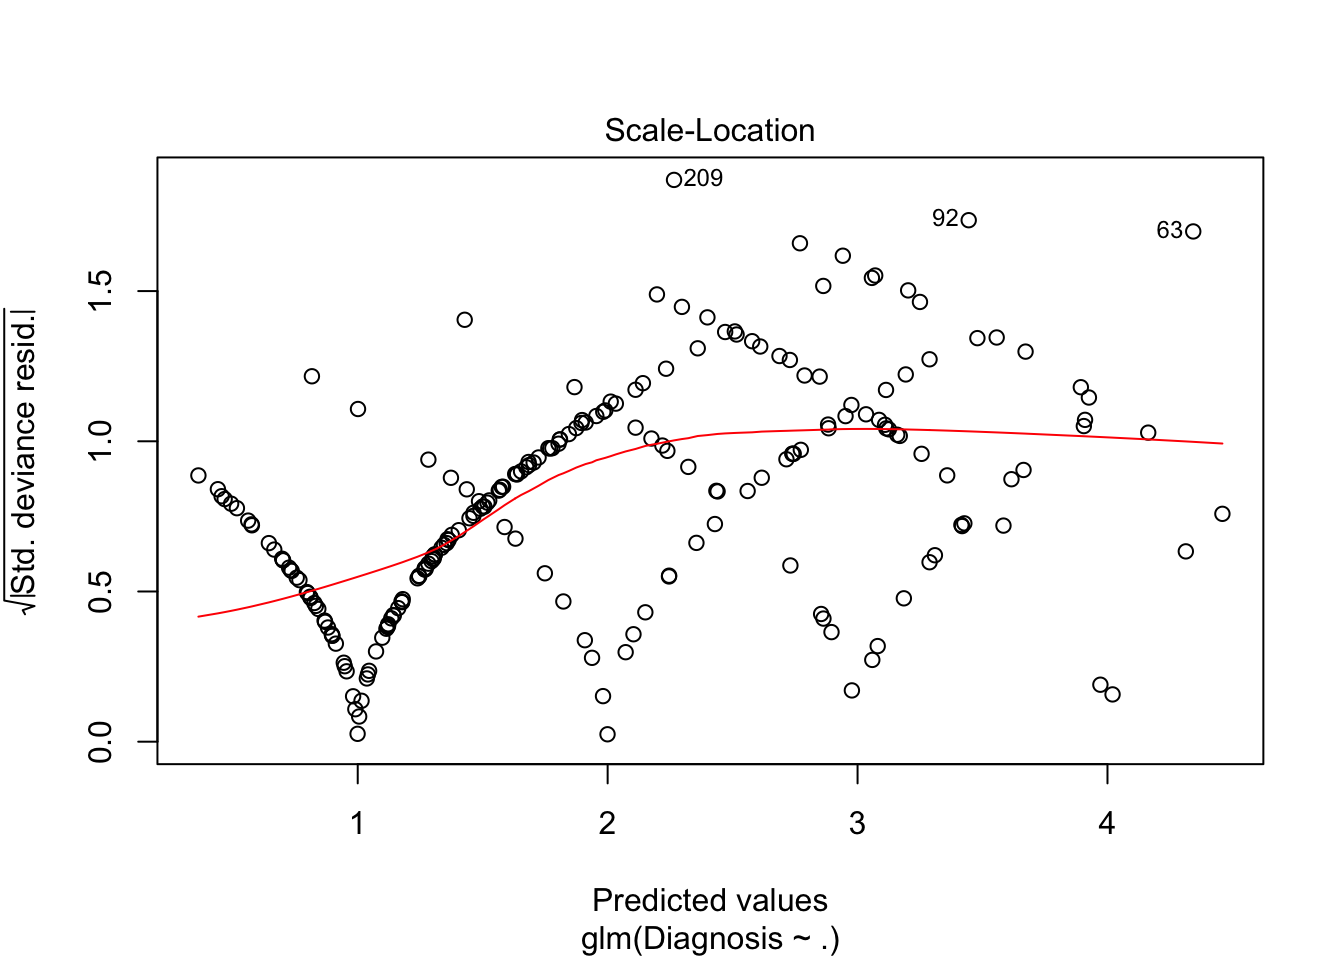
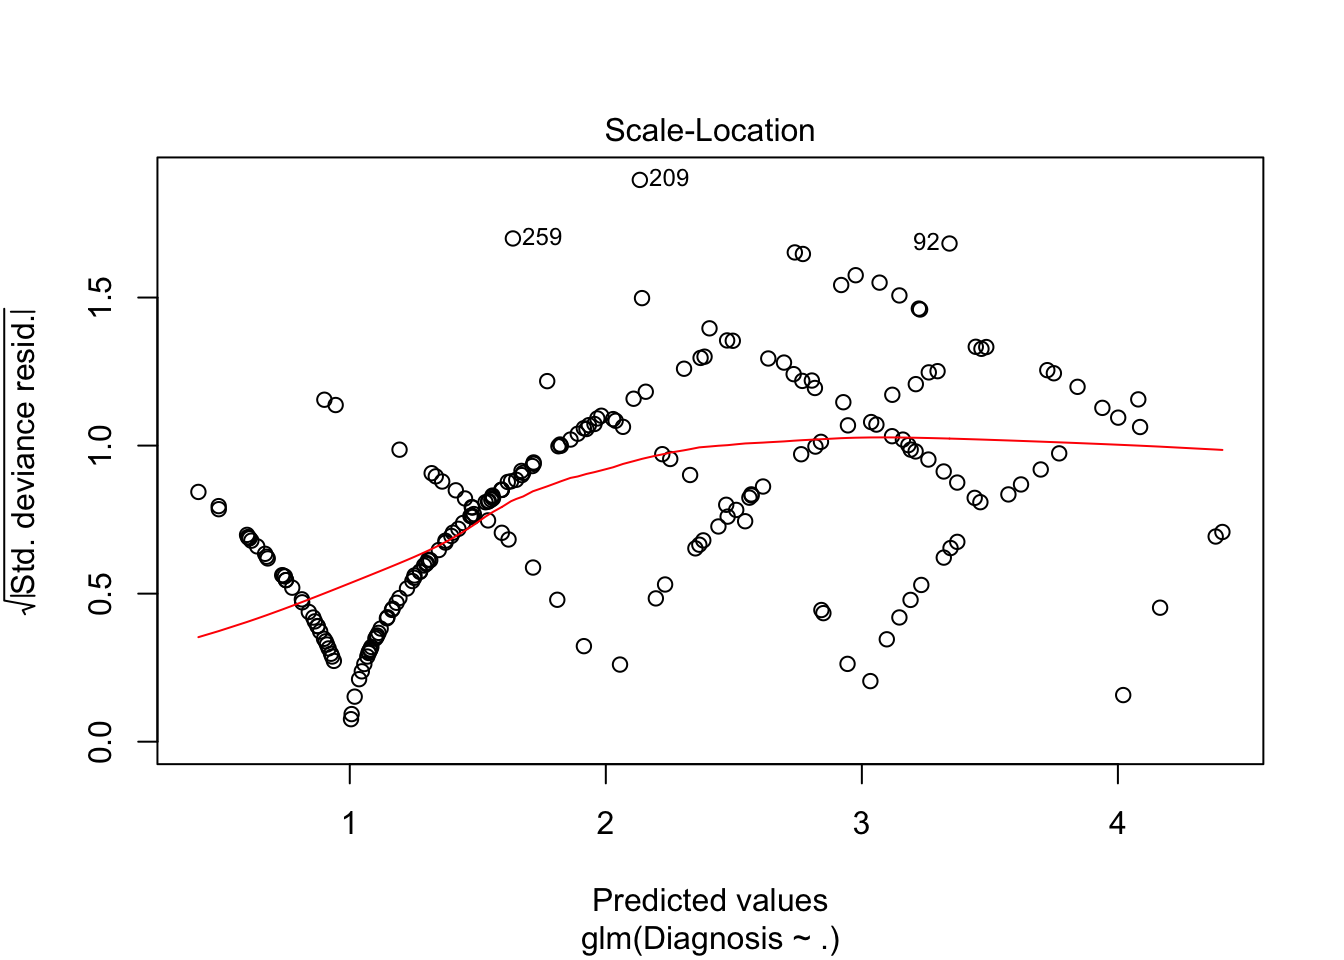
more stuff

diff --git a/content/post/Analysis_heart_conditions.html b/content/post/Analysis_heart_conditions.html
@@ -104,12 +104,12 @@ data.rpart</code></pre>
 ## Resampling results across tuning parameters:
 ## 
 ##   cp          Accuracy   Kappa    
-##   0.00990099  0.5546892  0.2778566
-##   0.02475248  0.5642824  0.2772408
-##   0.06930693  0.5659632  0.2313219
+##   0.01904762  0.5502062  0.2735190
+##   0.03809524  0.5580310  0.2738411
+##   0.06666667  0.5521312  0.2176496
 ## 
 ## Accuracy was used to select the optimal model using  the largest value.
-## The final value used for the model was cp = 0.06930693.</code></pre>
+## The final value used for the model was cp = 0.03809524.</code></pre>
 <pre class="r"><code># We can look at the decision tree here
 data.rpart$finalModel</code></pre>
 <pre><code>## n= 223 
@@ -117,50 +117,54 @@ data.rpart$finalModel</code></pre>
 ## node), split, n, loss, yval, (yprob)
 ##       * denotes terminal node
 ## 
-## 1) root 223 101 0  (0.55 0.16 0.12 0.13 0.04) *</code></pre>
+## 1) root 223 105 0  (0.53 0.18 0.12 0.12 0.054)  
+##   2) Thal3.0&gt;=0.5 123  27 0  (0.78 0.14 0.041 0.033 0.0081) *
+##   3) Thal3.0&lt; 0.5 100  77 1  (0.22 0.23 0.22 0.22 0.11)  
+##     6) Chest_Pain4.0&lt; 0.5 32  16 0  (0.5 0.22 0.16 0.062 0.062) *
+##     7) Chest_Pain4.0&gt;=0.5 68  48 3  (0.088 0.24 0.25 0.29 0.13) *</code></pre>
 <pre class="r"><code>#--------------------------Testing the rpart model and looking at output---------------------------------
 
 predict(data.rpart, test)</code></pre>
-<pre><code>##  [1] 0  0  0  0  0  0  0  0  0  0  0  0  0  0  0  0  0  0  0  0  0  0  0 
-## [24] 0  0  0  0  0  0  0  0  0  0  0  0  0  0  0  0  0  0  0  0  0  0  0 
-## [47] 0  0  0  0  0  0  0  0  0  0  0  0  0  0  0  0  0  0  0  0  0  0  0 
-## [70] 0  0  0  0  0 
+<pre><code>##  [1] 0  3  0  0  0  0  0  3  0  0  0  0  3  0  0  3  3  0  0  0  0  3  0 
+## [24] 0  0  0  0  3  0  3  3  0  0  0  0  0  0  0  3  0  0  3  0  3  3  3 
+## [47] 0  0  0  0  0  0  0  0  0  0  0  0  0  0  3  3  0  0  0  0  3  3  0 
+## [70] 0  0  3  3  3 
 ## Levels: 0  1  2  3  4</code></pre>
 <pre class="r"><code>confusionMatrix(predict(data.rpart, test), test$Diagnosis)</code></pre>
 <pre><code>## Confusion Matrix and Statistics
 ## 
 ##           Reference
 ## Prediction 0  1  2  3  4 
-##         0  38 18  9  5  4
+##         0  38  7  2  5  1
 ##         1   0  0  0  0  0
 ##         2   0  0  0  0  0
-##         3   0  0  0  0  0
+##         3   4  7  6  4  0
 ##         4   0  0  0  0  0
 ## 
 ## Overall Statistics
 ##                                           
-##                Accuracy : 0.5135          
-##                  95% CI : (0.3944, 0.6315)
-##     No Information Rate : 0.5135          
-##     P-Value [Acc &gt; NIR] : 0.5466          
+##                Accuracy : 0.5676          
+##                  95% CI : (0.4472, 0.6823)
+##     No Information Rate : 0.5676          
+##     P-Value [Acc &gt; NIR] : 0.5487          
 ##                                           
-##                   Kappa : 0               
+##                   Kappa : 0.2264          
 ##  Mcnemar&#39;s Test P-Value : NA              
 ## 
 ## Statistics by Class:
 ## 
 ##                      Class: 0  Class: 1  Class: 2  Class: 3  Class: 4 
-## Sensitivity             1.0000    0.0000    0.0000   0.00000   0.00000
-## Specificity             0.0000    1.0000    1.0000   1.00000   1.00000
-## Pos Pred Value          0.5135       NaN       NaN       NaN       NaN
-## Neg Pred Value             NaN    0.7568    0.8784   0.93243   0.94595
-## Prevalence              0.5135    0.2432    0.1216   0.06757   0.05405
-## Detection Rate          0.5135    0.0000    0.0000   0.00000   0.00000
-## Detection Prevalence    1.0000    0.0000    0.0000   0.00000   0.00000
-## Balanced Accuracy       0.5000    0.5000    0.5000   0.50000   0.50000</code></pre>
-<p>Looking at the output of the code, we see that we have 223 samples for the training set, with 13 predictors and 5 classes. This all sounds good. One interesting aspect of the rpart model is that it is able to give us different complexity parameters and their subsequent accuracy is used in the model. The complexity parameter is effectively a measurement of how deep your decision tree is. If this doesn’t make sense, I suggest doing some background reading on it. We see that a complexity parameter of 0.028 gives us the highest level of accuracy, which is a worryingly low 53%. Not to worry however, as we haven’t tested the model yet. We can also have a look at the decision tree.</p>
-<p>We then moving on to testing our model. We use the predict command, which predicts the Diagnosis of the 75 remaining data points using the 13 factors. We can see the output. This is nice to see, but really that useful. What is useful however, is the confusion matrix. This shows us how many false/true positive/negatives were produced by the model on the testing data set, as well as he overall statistics. We can see the sensitivity and specificity for each result, as well as the overall accuracy. Our accuracy is 59.46%, which is surprisingly low given what we expected.</p>
-<p>A low accuracy value is not the end of the world, for several reasons. The first of these is we have chosen an inappropriate model for the data set. Following this thinking, I tried a different tact. I ran a logistical regression model for two reasons. The first is that it is another model and so we might have success in that regard. The second is that it is able to tell you which factors have a larger impact on the model, and it is possible that having extraneous factors in your model will make in inaccurate. And so, we took it for a spin.</p>
+## Sensitivity             0.9048    0.0000    0.0000   0.44444   0.00000
+## Specificity             0.5312    1.0000    1.0000   0.73846   1.00000
+## Pos Pred Value          0.7170       NaN       NaN   0.19048       NaN
+## Neg Pred Value          0.8095    0.8108    0.8919   0.90566   0.98649
+## Prevalence              0.5676    0.1892    0.1081   0.12162   0.01351
+## Detection Rate          0.5135    0.0000    0.0000   0.05405   0.00000
+## Detection Prevalence    0.7162    0.0000    0.0000   0.28378   0.00000
+## Balanced Accuracy       0.7180    0.5000    0.5000   0.59145   0.50000</code></pre>
+<p>Looking at the output of the code, we see that we have 223 samples for the training set, with 13 predictors and 5 classes. This all sounds good. One interesting aspect of the rpart model is that it is able to give us different complexity parameters and their subsequent accuracy is used in the model. The complexity parameter is effectively a measurement of how deep your decision tree is. If this doesn’t make sense, I suggest doing some background reading on it. We see which complexity parameter gives us the highest level of accuracy, which can be seen to be worryingly low here. Not to worry however, as we haven’t tested the model yet. We can also have a look at the decision tree if we wish to.</p>
+<p>We then moving on to testing our model. We use the predict command, which predicts the Diagnosis of the 75 remaining data points using the 13 factors. We can see the output. This is nice to see, but really that useful. What is useful however, is the confusion matrix. This shows us how many false/true positive/negatives were produced by the model on the testing data set, as well as the overall statistics. We can see the sensitivity and specificity for each result, as well as the overall accuracy. Our accuracy is surprisingly low given that we expected the factors to be highly correlated to the output.</p>
+<p>A low accuracy value is not the end of the world, for several reasons. The first of these is we have chosen an inappropriate model for the data set. Following this thinking, I tried a different tact and so I ran a logistical regession model. This has two benefits. The first is that it is another model and so we may find it is accurate. However, it is also a rather simple model and as the decision tree failed, I was not hopeful. The main reason I ran it is that this model is able to tell you which factors are strongly correlated, and which are not, to the output. We want to know this because sometimes having extraneous factors in the model makes it less accurate, and so if we are able to cut some unnecessary ones, it should help.</p>
 <p>Once again, we divide the data into testing and training sets. A subtlety here is that the logistic model strictly takes numeric arguments, so we have to make sure the dataframe is a numeric one. Onc again we train the model as Diagnosis as a function of everything with the training data set and then we have a look.</p>
 <pre class="r"><code>#-----------------------------Using a Logistics model--------------------------------------------------
 
@@ -178,35 +182,37 @@ summary(logistic)</code></pre>
 ## glm(formula = Diagnosis ~ ., data = train)
 ## 
 ## Deviance Residuals: 
-##      Min        1Q    Median        3Q       Max  
-## -2.44471  -0.54312  -0.07324   0.43167   2.73439  
+##     Min       1Q   Median       3Q      Max  
+## -2.3423  -0.5543  -0.0974   0.4858   2.8671  
 ## 
 ## Coefficients:
 ##                             Estimate Std. Error t value Pr(&gt;|t|)    
-## (Intercept)               -1.8838280  0.4714950  -3.995 8.95e-05 ***
-## Age                       -0.0030105  0.0073353  -0.410 0.681926    
-## Sex                        0.2701683  0.1323493   2.041 0.042475 *  
-## Chest_Pain                 0.2128826  0.0643597   3.308 0.001107 ** 
-## Blood_Pressure            -0.0009431  0.0058152  -0.162 0.871316    
-## Cholestoral               -0.0005588  0.0015066  -0.371 0.711105    
-## Blood_Sugar               -0.1029197  0.1705757  -0.603 0.546919    
-## ecg                        0.1074881  0.0586621   1.832 0.068326 .  
-## Max_Heart_Rate            -0.0040413  0.0031305  -1.291 0.198151    
-## eia                        0.3059850  0.1436423   2.130 0.034325 *  
-## Exercise_induced_feelings  0.0214277  0.0070858   3.024 0.002807 ** 
-## Slope_of_ST                0.2212926  0.1129189   1.960 0.051355 .  
-## Fluoroscopy_stain          0.4539785  0.0686122   6.617 3.03e-10 ***
-## Thal                       0.2604218  0.0736659   3.535 0.000502 ***
+## (Intercept)               -2.011e+00  4.907e-01  -4.099 5.94e-05 ***
+## Age                       -5.789e-05  7.465e-03  -0.008  0.99382    
+## Sex                        1.396e-01  1.342e-01   1.040  0.29954    
+## Chest_Pain                 2.123e-01  6.840e-02   3.104  0.00217 ** 
+## Blood_Pressure             5.633e-03  5.539e-03   1.017  0.31031    
+## Cholestoral               -3.079e-04  1.550e-03  -0.199  0.84273    
+## Blood_Sugar               -1.136e-01  1.655e-01  -0.687  0.49298    
+## ecg                        1.443e-01  6.037e-02   2.390  0.01773 *  
+## Max_Heart_Rate            -3.133e-03  3.179e-03  -0.986  0.32548    
+## eia                        3.768e-01  1.448e-01   2.603  0.00991 ** 
+## Exercise_induced_feelings  2.039e-02  7.414e-03   2.750  0.00648 ** 
+## Slope_of_ST                1.079e-01  1.158e-01   0.932  0.35236    
+## Fluoroscopy_stain          4.516e-01  6.807e-02   6.635 2.73e-10 ***
+## Thal                       3.021e-01  7.178e-02   4.209 3.81e-05 ***
 ## ---
 ## Signif. codes:  0 &#39;***&#39; 0.001 &#39;**&#39; 0.01 &#39;*&#39; 0.05 &#39;.&#39; 0.1 &#39; &#39; 1
 ## 
-## (Dispersion parameter for gaussian family taken to be 0.695916)
+## (Dispersion parameter for gaussian family taken to be 0.7212286)
 ## 
-##     Null deviance: 355.55  on 222  degrees of freedom
-## Residual deviance: 145.45  on 209  degrees of freedom
-## AIC: 567.54
+##     Null deviance: 365.00  on 222  degrees of freedom
+## Residual deviance: 150.74  on 209  degrees of freedom
+## AIC: 575.51
 ## 
 ## Number of Fisher Scoring iterations: 2</code></pre>
 <pre class="r"><code>plot(logistic)</code></pre>
 <p><img src="/post/Analysis_heart_conditions_files/figure-html/unnamed-chunk-4-1.png" width="672" /><img src="/post/Analysis_heart_conditions_files/figure-html/unnamed-chunk-4-2.png" width="672" /><img src="/post/Analysis_heart_conditions_files/figure-html/unnamed-chunk-4-3.png" width="672" /><img src="/post/Analysis_heart_conditions_files/figure-html/unnamed-chunk-4-4.png" width="672" /></p>
+<p>The first thing that we see when we examine the sumamry is that not all of our factors are important. We can see it in two ways. The technical way is to see which factor has a small (on the order of 10^(-3)) p factor. The slightly easier way is to look at the stars next to the factors… *** means important, means not. I was happy to see that 8 of our factors seem to have little or no bearing on the model, and so we can take them out.</p>
+<p>I was less happy with the plots. As you can see, the model struggled to successfully model the data points. I was not discouraged however, as I had one more trick up my sleeve… the Neural Network</p>
 </div>
